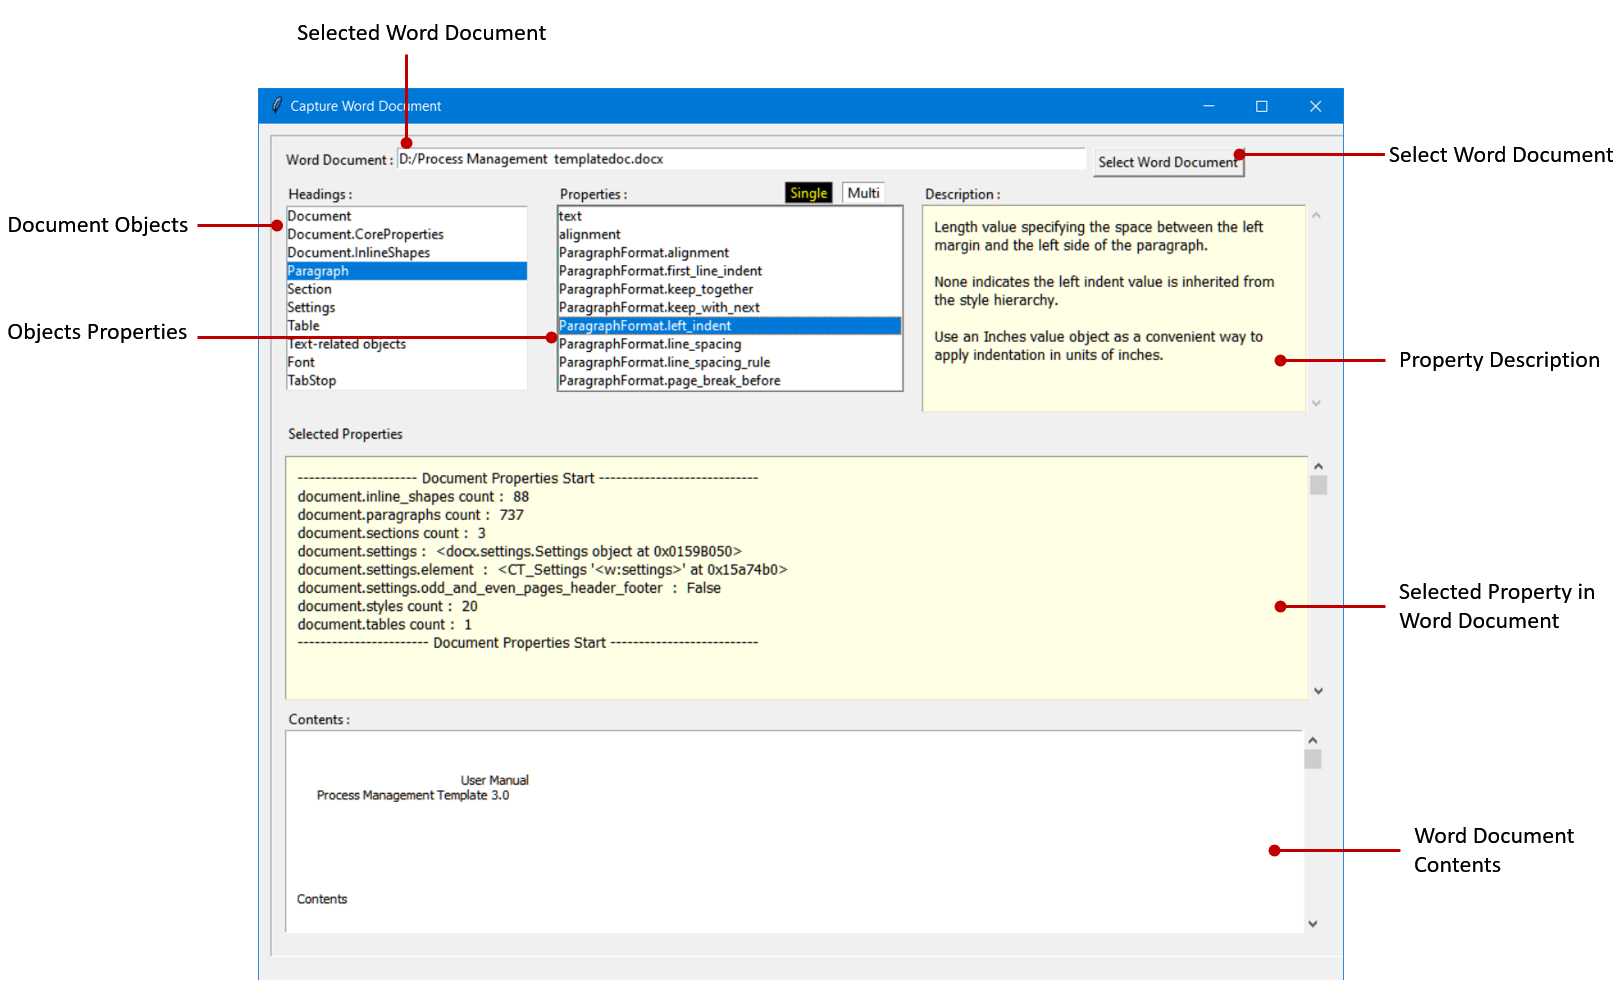
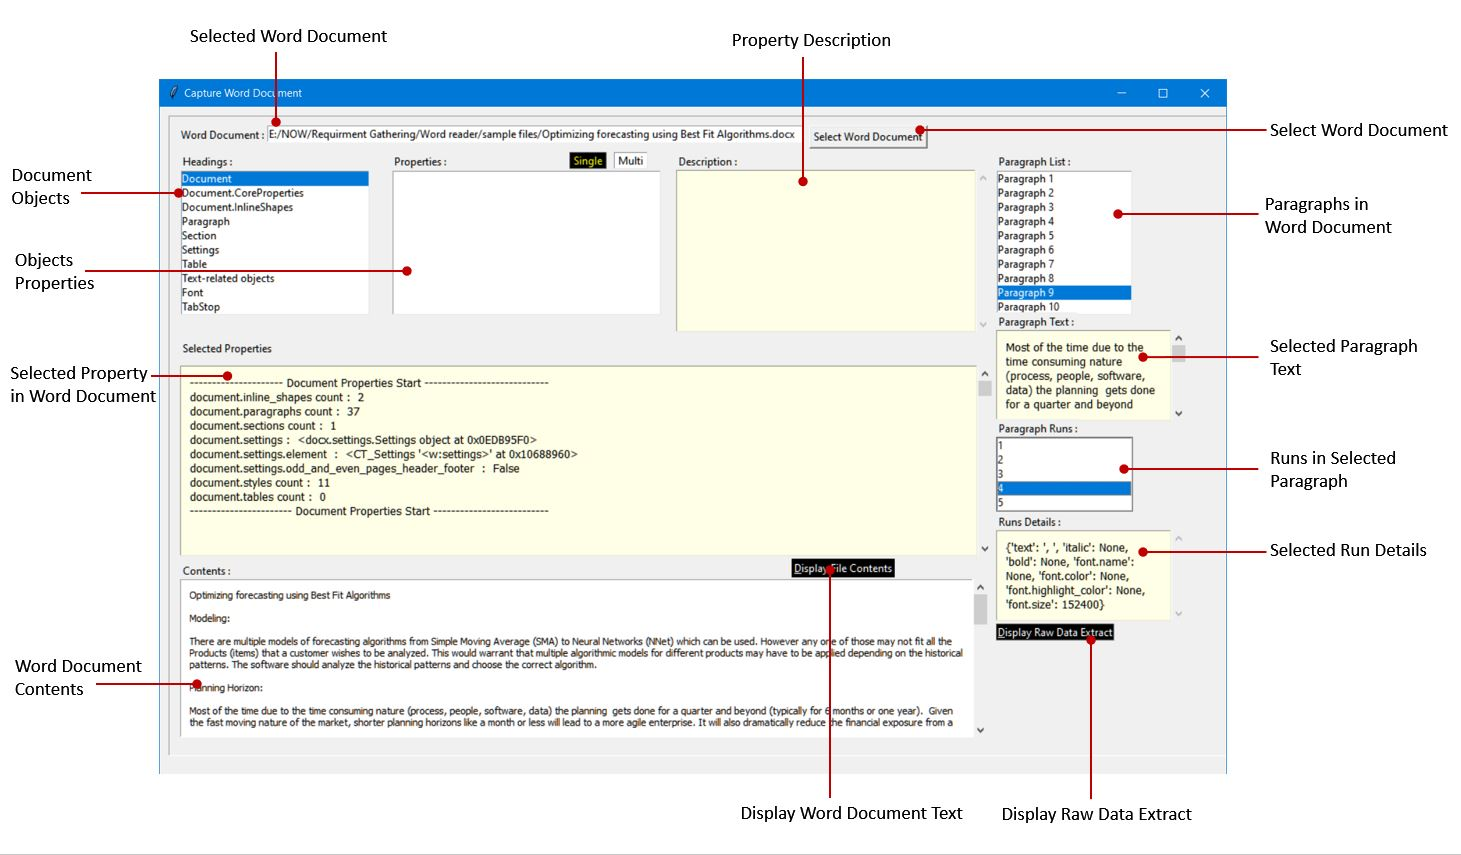
Updated Form Interface image and related Topic lines

diff --git a/booksonline/topic_11.html b/booksonline/topic_11.html
@@ -121,6 +121,11 @@ It allows user to select a Word Document from the local drive.<br>
 It displays the definitions of the Object, Properties and Property Description defined by python-docx library. This information is read from the Framework Setting Excel document i.e. <b>"FrameworkForWordDocument.xlsx"</b>.<br>
 It displays the Object Properties of the selected Word Docuement in Read-only mode.<br>
 It displays the Text inside the selected Word Document. <br>
+It displays the list of Paragraphs in selected Word Document.<br>
+It displays the Text in each selected Paragraph.<br>
+It displays the list of Runs in each selected Paragraph.<br>
+It displays the the Details of each selected Run of selected Paragraph.<br>
+It displays the Raw data extracted from the selected Word Document.<br>
 
 <br><br>
 
